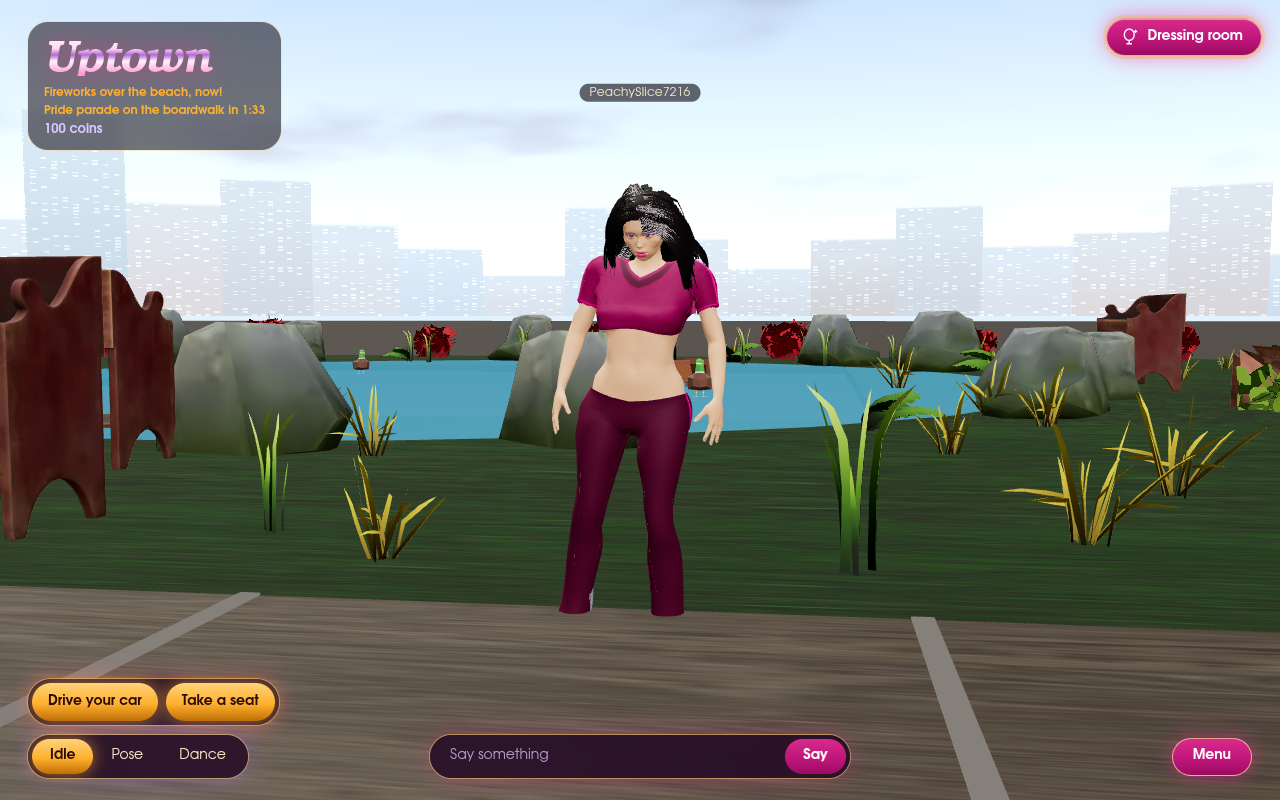
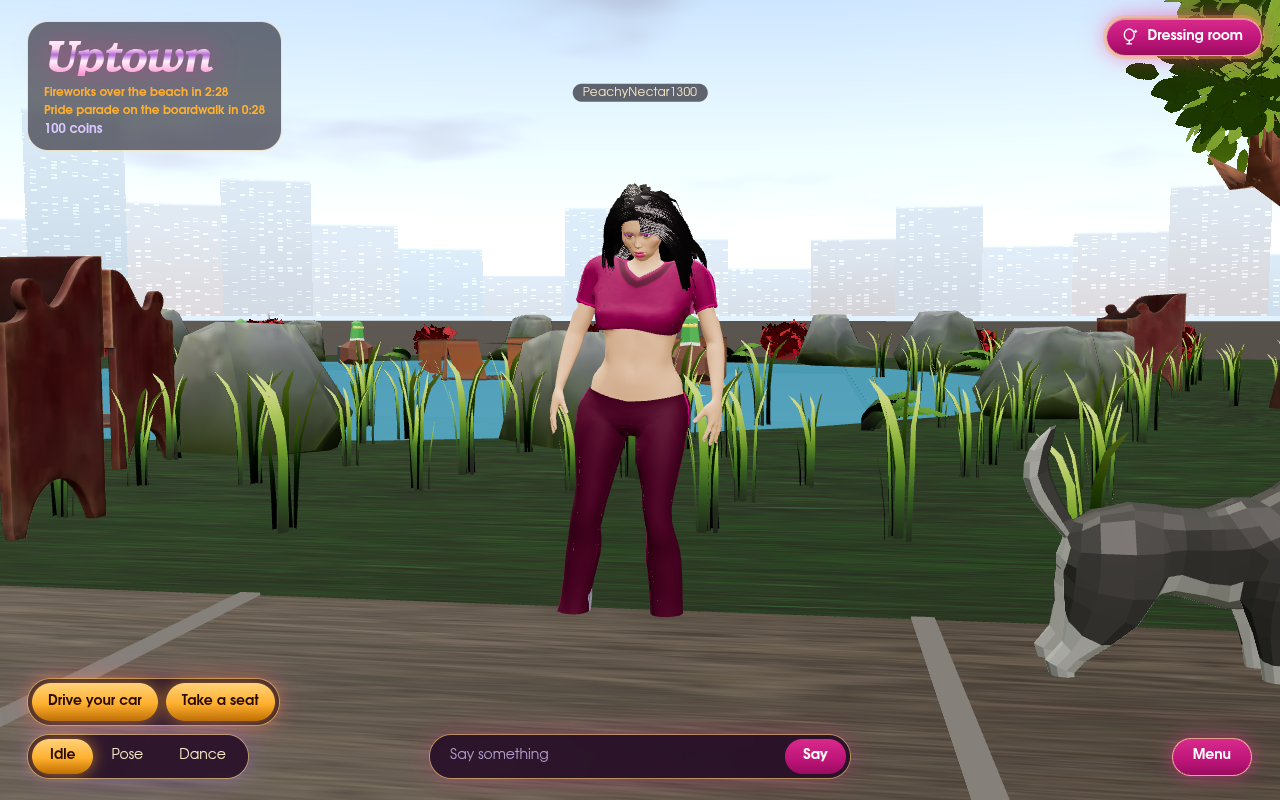
fix(city): street trees no longer clamped by mesh quantization; fountain spray as round dots; park screenshots

diff --git a/src/client/city/CityPark.tsx b/src/client/city/CityPark.tsx
@@ -191,17 +191,28 @@ export function FountainWater(): JSX.Element {
     );
     return g;
   }, []);
-  const spray = useMemo(
-    () =>
-      new THREE.PointsMaterial({
-        color: "#e6f7ff",
-        size: 0.16,
-        transparent: true,
-        opacity: 0.85,
-        depthWrite: false,
-      }),
-    [],
-  );
+  const spray = useMemo(() => {
+    // a soft round dot, so the droplets are not squares
+    const c = document.createElement("canvas");
+    c.width = c.height = 32;
+    const g = c.getContext("2d");
+    if (g) {
+      const grad = g.createRadialGradient(16, 16, 0, 16, 16, 16);
+      grad.addColorStop(0, "rgba(255,255,255,1)");
+      grad.addColorStop(1, "rgba(255,255,255,0)");
+      g.fillStyle = grad;
+      g.fillRect(0, 0, 32, 32);
+    }
+    return new THREE.PointsMaterial({
+      map: new THREE.CanvasTexture(c),
+      alphaTest: 0.02,
+      color: "#e6f7ff",
+      size: 0.28,
+      transparent: true,
+      opacity: 0.85,
+      depthWrite: false,
+    });
+  }, []);
   useEffect(() => {
     material.color.copy(FOUNTAIN_WATER).multiplyScalar(1 - 0.6 * neon);
     spray.color.set("#e6f7ff").multiplyScalar(1 - 0.5 * neon);
@@ -227,14 +238,14 @@ export function FountainWater(): JSX.Element {
   return (
     <group position={[PARK_FOUNTAIN.x, GROUND, PARK_FOUNTAIN.z]}>
       <mesh
-        position={[0, 0.34, 0]}
+        position={[0, 0.41, 0]}
         rotation={[-Math.PI / 2, 0, 0]}
         material={material}
       >
         <circleGeometry args={[2.95, 28]} />
       </mesh>
       <mesh
-        position={[0, 0.98, 0]}
+        position={[0, 1.02, 0]}
         rotation={[-Math.PI / 2, 0, 0]}
         material={material}
       >

diff --git a/src/client/city/CityFurniture.tsx b/src/client/city/CityFurniture.tsx
@@ -22,6 +22,7 @@ import {
 import { createStore } from "../rooms/shared/store.ts";
 import { useQuality } from "../world/quality.ts";
 import { useDaylight } from "./daylight.ts";
+import { floated } from "./floated.ts";
 
 const MODELS = "/models/street";
 /** The most pieces of one kind in view at once. */
@@ -35,34 +36,6 @@ export const cityFurniture = createStore({
   spots: [] as readonly FurnitureSpot[],
   at: [0, 0] as readonly [number, number],
 });
-
-/**
- * A copy with float positions and normals. The optimized GLBs store them
- * quantized (normalized integers whose node transform restores the scale), and
- * baking a transform into a normalized attribute would clamp it to +-1.
- */
-function floated(source: THREE.BufferGeometry): THREE.BufferGeometry {
-  const geometry = source.clone();
-  for (const name of ["position", "normal"]) {
-    const a = geometry.getAttribute(name);
-    if (!a || a instanceof THREE.InterleavedBufferAttribute) {
-      if (a) geometry.setAttribute(name, floatCopy(a));
-      continue;
-    }
-    if (a.normalized || !(a.array instanceof Float32Array))
-      geometry.setAttribute(name, floatCopy(a));
-  }
-  return geometry;
-}
-
-function floatCopy(
-  a: THREE.BufferAttribute | THREE.InterleavedBufferAttribute,
-) {
-  const out = new THREE.BufferAttribute(new Float32Array(a.count * 3), 3);
-  for (let i = 0; i < a.count; i++)
-    out.setXYZ(i, a.getX(i), a.getY(i), a.getZ(i));
-  return out;
-}
 
 /** A model's meshes, each with its node transform baked into the geometry. */
 export function partsOf(

diff --git a/src/client/city/floated.ts b/src/client/city/floated.ts
@@ -1,0 +1,31 @@
+// Float copies of glTF geometry, for models optimized with meshopt
+// quantization (CityFurniture, CityTrees, CityPark bake node transforms in).
+import * as THREE from "three";
+
+/**
+ * A copy with float positions and normals. The optimized GLBs store them
+ * quantized (normalized integers whose node transform restores the scale), and
+ * baking a transform into a normalized attribute would clamp it to +-1.
+ */
+export function floated(source: THREE.BufferGeometry): THREE.BufferGeometry {
+  const geometry = source.clone();
+  for (const name of ["position", "normal"]) {
+    const a = geometry.getAttribute(name);
+    if (!a || a instanceof THREE.InterleavedBufferAttribute) {
+      if (a) geometry.setAttribute(name, floatCopy(a));
+      continue;
+    }
+    if (a.normalized || !(a.array instanceof Float32Array))
+      geometry.setAttribute(name, floatCopy(a));
+  }
+  return geometry;
+}
+
+function floatCopy(
+  a: THREE.BufferAttribute | THREE.InterleavedBufferAttribute,
+) {
+  const out = new THREE.BufferAttribute(new Float32Array(a.count * 3), 3);
+  for (let i = 0; i < a.count; i++)
+    out.setXYZ(i, a.getX(i), a.getY(i), a.getZ(i));
+  return out;
+}

diff --git a/src/client/city/CityTrees.tsx b/src/client/city/CityTrees.tsx
@@ -13,6 +13,7 @@ import * as THREE from "three";
 import { TREE_VARIANTS, type TreeSpot } from "../../game/city/plan.ts";
 import { createStore } from "../rooms/shared/store.ts";
 import { useQuality } from "../world/quality.ts";
+import { floated } from "./floated.ts";
 
 const MODELS = "/models/nature";
 /** Trees nearer than this (meters, from where the plan was cut) get full detail. */
@@ -44,7 +45,7 @@ function partsOf(scene: THREE.Object3D): Part[] {
   const parts: Part[] = [];
   scene.traverse((o) => {
     if (!(o instanceof THREE.Mesh)) return;
-    const geometry = (o.geometry as THREE.BufferGeometry).clone();
+    const geometry = floated(o.geometry as THREE.BufferGeometry);
     geometry.applyMatrix4(o.matrixWorld);
     const material = Array.isArray(o.material) ? o.material[0] : o.material;
     if (material) parts.push({ geometry, material });
